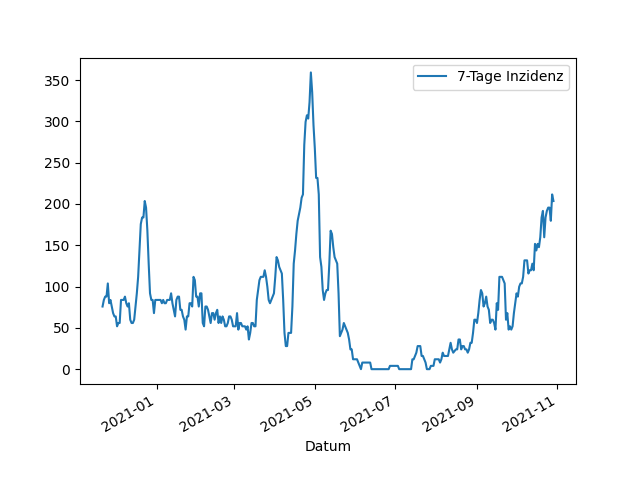
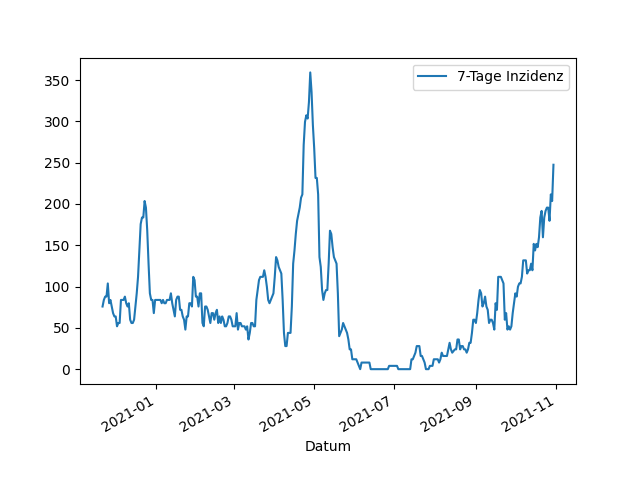
Update images

diff --git a/_includes/aktuelle_inzidenz.md b/_includes/aktuelle_inzidenz.md
@@ -1,1 +1,1 @@
-203,6
+247,5
